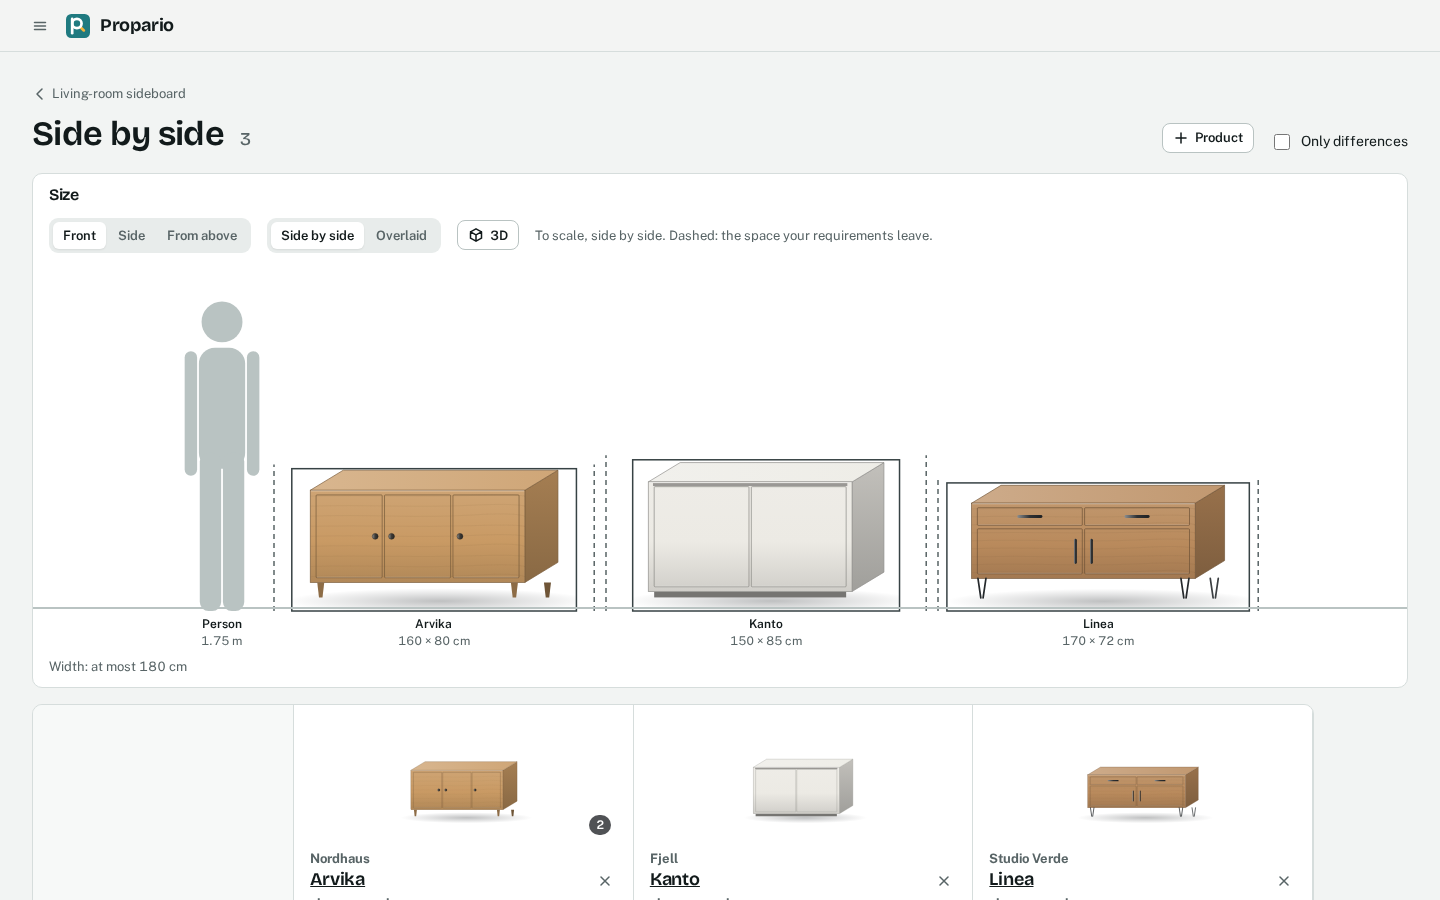
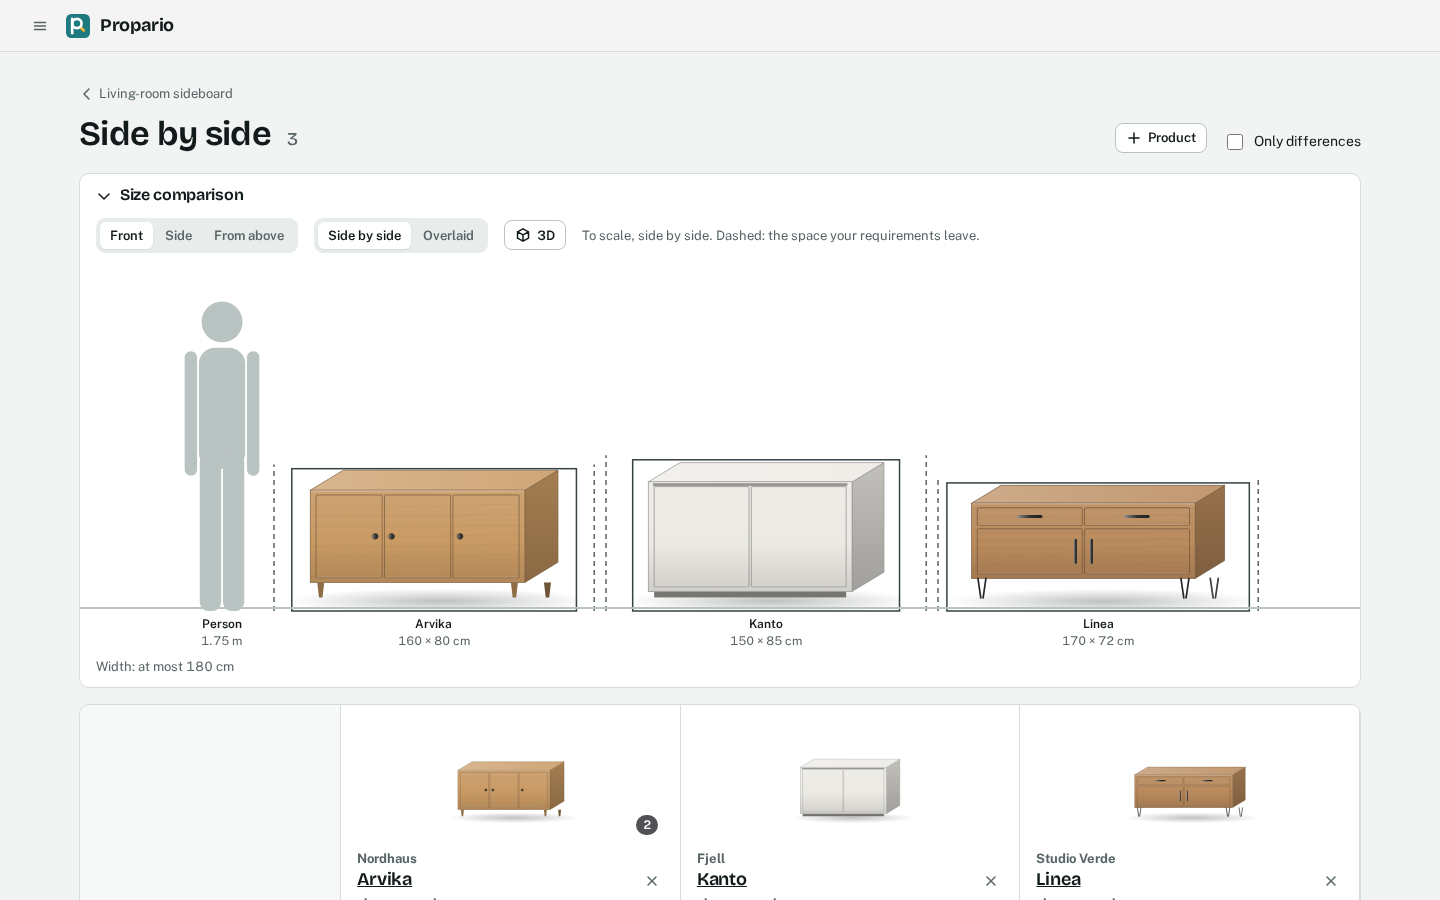
Size comparison: an arrow that shows it opens, one width with the table
The drawing's heading says "Size comparison" and carries an arrow,
right when folded and down when open. Side by side and in a duel the
whole page takes the table's width, so the drawing, the table and the
choices line up instead of the drawing spanning the screen.

diff --git a/src/pages/Compare.tsx b/src/pages/Compare.tsx
@@ -99,6 +99,8 @@ export function ComparePage() {
 
   const ids = duelMode ? (pair ? [pair.left, pair.right] : []) : (params.get('ids') ?? '').split(',').filter(Boolean)
   const products = ids.map((x) => data.products.find((p) => p.id === x)).filter((p): p is Product => !!p)
+  // A product's column grows to 360 px at most, and the whole page with it: on a wide screen the
+  // drawing, the table and the choices share one width, the values close to their names.
   const compareWidth = COMPARE_ROWHEAD + COMPARE_MAX_COL * products.length + 2
   const back = `/p/${data.project.id}`
   /** Products of the comparison not yet side by side, the ones still in the running first. */
@@ -330,7 +332,7 @@ export function ComparePage() {
   const isEmpty = (r: Row) => r.values.every((v) => !v.trim())
 
   return (
-    <main className="wide compare-page">
+    <main className="wide compare-page" style={{ maxWidth: `calc(${compareWidth}px + 2 * var(--gutter))` }}>
       <Link to={back} className="crumb">
         <Glyph name="chevronLeft" /> {data.project.name}
       </Link>
@@ -384,9 +386,7 @@ export function ComparePage() {
         </div>
       )}
       <SizeCompare products={products} data={data} open={sizeOpen} onToggle={setSizeOpen} />
-      {/* Side by side, a product's column grows to 360 px at most: on a wide screen the values stay
-          close to their names instead of spreading over the whole width. */}
-      <div className={`compare-wrap${duelMode ? ' duel' : ''}`} style={{ maxWidth: compareWidth }}>
+      <div className={`compare-wrap${duelMode ? ' duel' : ''}`}>
         <table className={`compare${duelMode ? ' duel' : ''}`}>
           {!duelMode && (
             <colgroup>
@@ -487,7 +487,7 @@ export function ComparePage() {
       </div>
       {duelMode && mine && pair && (
         // The choice sits at the bottom of the screen, where the thumb is – like when swiping.
-        <div className="duel-actions" role="group" aria-label={m.duel.question} style={{ maxWidth: compareWidth }}>
+        <div className="duel-actions" role="group" aria-label={m.duel.question}>
           {/* ✓ = take this one: a choice, not a swipe. "Later" sits quietly between the two. */}
           <div className="duel-choices">
             <button type="button" className="btn primary" onClick={() => choose('left')} aria-keyshortcuts="ArrowLeft">

diff --git a/e2e/journey.spec.ts b/e2e/journey.spec.ts
@@ -264,7 +264,13 @@ test('a visitor sees what Propario does and tries the demo, which never talks to
     .first()
     .click()
   const size = page.locator('.size-compare')
-  await expect(size.getByRole('heading', { name: 'Size' })).toBeVisible()
+  await expect(size.getByRole('heading', { name: 'Size comparison' })).toBeVisible()
+  // On a wide screen the drawing and the table share one width, as wide as three columns need.
+  await page.setViewportSize({ width: 1700, height: 800 })
+  const [sizeBox, tableBox] = await Promise.all([size.boundingBox(), page.locator('.compare-wrap').boundingBox()])
+  expect(Math.round(sizeBox!.width)).toBe(Math.round(tableBox!.width))
+  expect(tableBox!.width).toBeLessThanOrEqual(200 + 3 * 360 + 2)
+  await page.setViewportSize({ width: 1280, height: 800 })
   await expect(size.locator('figcaption', { hasText: 'Mira' })).toContainText('Width 200 cm (too big), Height 78 cm')
   await expect(size.locator('figcaption', { hasText: 'Arvika' }).locator('.over')).toHaveCount(0)
   await expect(size.getByText('Width: at most 180 cm')).toBeVisible()

diff --git a/src/styles/app.css b/src/styles/app.css
@@ -4926,9 +4926,26 @@ table.compare.duel {
 .size-compare > summary {
   display: flex;
   align-items: center;
+  gap: 8px;
   min-height: 44px;
   padding: 0 16px;
   cursor: pointer;
+  list-style: none;
+}
+.size-compare > summary::-webkit-details-marker {
+  display: none;
+}
+/* The arrow says it opens: right when folded, down when open. */
+.size-compare > summary .glyph {
+  transition: transform 0.15s;
+}
+.size-compare[open] > summary .glyph {
+  transform: rotate(90deg);
+}
+@media (prefers-reduced-motion: reduce) {
+  .size-compare > summary .glyph {
+    transition: none;
+  }
 }
 .size-compare > summary h2 {
   display: inline;

diff --git a/src/pages/project/SizeCompare.tsx b/src/pages/project/SizeCompare.tsx
@@ -18,6 +18,7 @@ import {
   type View,
   type ViewPic,
 } from '../../domain/size'
+import { Glyph } from '../../ui/Glyph'
 import { useI18n } from '../../i18n'
 import { productImage } from '../../images'
 import type { ProjectData } from './useProjectData'
@@ -145,6 +146,7 @@ export function SizeCompare({
   return (
     <details className="size-compare" open={open} onToggle={(e) => onToggle?.(e.currentTarget.open)}>
       <summary>
+        <Glyph name="chevronRight" />
         <h2>{m.size.title}</h2>
       </summary>
       <div className="size-head">

diff --git a/src/i18n/de.ts b/src/i18n/de.ts
@@ -828,7 +828,7 @@ export const de: Messages = {
     arFailed: 'Die Raumansicht ließ sich auf diesem Gerät nicht starten.',
   },
   size: {
-    title: 'Größe',
+    title: 'Größenvergleich',
     view: 'Ansicht',
     views: { front: 'Vorne', back: 'Hinten', side: 'Seite', top: 'Von oben' },
     layout: 'Anordnung',

diff --git a/src/i18n/en.ts b/src/i18n/en.ts
@@ -821,7 +821,7 @@ export const en = {
     arFailed: 'The room view could not start on this device.',
   },
   size: {
-    title: 'Size',
+    title: 'Size comparison',
     view: 'View',
     views: { front: 'Front', back: 'Back', side: 'Side', top: 'From above' },
     layout: 'Arrangement',

diff --git a/CHANGELOG.md b/CHANGELOG.md
@@ -27,10 +27,10 @@ for fixes. See "Releases" in [CONTRIBUTING.md](CONTRIBUTING.md).
   requirement stay in view, in the fields the name does.
 - Changed: on the start page a phone folds category and status behind the filter button; the
   “Show archived” box is gone, the status “Archived” shows them.
-- Changed: a duel shows the two products first; the drawing to scale waits folded under “Size” and
-  stays open once opened.
-- Changed: side by side, a product's column grows to 360 px at most, so on a wide screen the values
-  stay near their names.
+- Changed: a duel shows the two products first; the drawing to scale waits folded under “Size
+  comparison”, with an arrow that shows it opens, and stays open once opened.
+- Changed: side by side and in a duel, a product's column grows to 360 px at most and the page
+  with it, so on a wide screen the drawing, the table and the choices share one width.
 - Fixed: below the side-by-side table the page went on with empty space. Scrolled down, the
   table's box now fills the screen below the top bar and the page ends there.
 - Fixed: a duplicated or imported comparison lost its price reference, and its duel rankings

diff --git a/docs/user-guide.md b/docs/user-guide.md
@@ -128,10 +128,10 @@ their judgements together.
   keys (↓ for neutral). At the end you see what everyone likes.
 - **Duel:** two at a time – which is better? After a few duels your ranking stands. Duels are
   between your favourites and what everyone likes. The drawing to scale waits folded under
-  **Size**. Everyone's rankings become the **joint ranking**; its first place can become the
+  **Size comparison**. Everyone's rankings become the **joint ranking**; its first place can become the
   decision.
 - **Side by side:** select products in the table and **Compare**. Best values are marked,
-  _Only differences_ hides what is the same, and **Size** draws the products to scale next to
+  _Only differences_ hides what is the same, and **Size comparison** draws the products to scale next to
   a person and the space your requirements leave – from the front, the side or above, side by
   side or overlaid, and in **3D**. On a phone that supports it, **View in your room** puts a
   product into your room.
